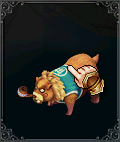
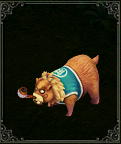
宠物图鉴更新

diff --git a/docs/game/chongwu/list/v3.md b/docs/game/chongwu/list/v3.md
@@ -1,32 +1,32 @@
 # 充值类宠物
 
-|                             充                             |                            值                             |                             神                             |                              宠                              |
-| :--------------------------------------------------------: | :-------------------------------------------------------: | :--------------------------------------------------------: | :----------------------------------------------------------: |
-|                         冰舞圣天麟                         |                        火舞神天麟                         |                           <br/>                            |                         麒麟真君战车                         |
-|                          青鸾游仙                          |  ![](/static/images/game/chongwu/hfft.png)<br/>火凤焚天   |                           <br/>                            |                          凤舞傲九天                          |
-|   ![](/static/images/game/chongwu/hszs.png)<br/>寒霜之殇   |                         炎天之怒                          |                           <br/>                            |                          神龙耀九天                          |
-|                          平步青云                          |  ![](/static/images/game/chongwu/yhcq.png)<br/>月华苍穹   |                           <br/>                            |                           飞黄腾达                           |
-|                          白羊之护                          |                         潘神之怒                          |                           <br/>                            |                           黄金战羊                           |
-|   ![](/static/images/game/chongwu/ptlx.png)<br/>菩提灵象   |                         迦叶圣象                          |                          焚天神象                          |                           黄金战象                           |
-|                           情缘剑                           |                         轩辕战剑                          |                          踏歌采和                          |                           帝赐金福                           |
-|    ![](/static/images/game/chongwu/ljl.png)<br/>蓝锦鳞     |    ![](/static/images/game/chongwu/hjl.png)<br/>红锦鳞    |                            金鳞                            |                          逆天的金鳞                          |
-|                          紫金葫芦                          |                         白玉葫芦                          |                          粉晶葫芦                          |                          八仙的葫芦                          |
-|    ![](/static/images/game/chongwu/slf.png)<br/>圣莲*粉    |   ![](/static/images/game/chongwu/slb.png)<br/>圣莲*白    |                          圣莲*蓝                           |                           金莲菩提                           |
-|                          怒焰妖狐                          |  ![](/static/images/game/chongwu/rxlh.png)<br/>瑞雪灵狐   |                          樱雪仙狐                          |                           金钰吉狐                           |
-|                       迷你炫车*玫红                        |                       迷你炫车*宝蓝                       |                       迷你炫车*橘黄                        |                                                              |
-|                          魔毯*海                           |                          魔毯*陆                          |                          魔毯*空                           |                           飞天魔毯                           |
-|                          天使之驾                          |                         精灵之驾                          |                           <br/>                            |                          梦幻南瓜车                          |
-|  ![](/static/images/game/chongwu/thcf.png)<br/>童话车*粉   |                         童话车*蓝                         |                         童话车*紫                          |                          冰雪童话车                          |
-|                          圣灵之羽                          |                         夜皇之翼                          |                           <br/>                            |                            <br/>                             |
-|                          帷幔*粉                           |                          帷幔*白                          |                          帷幔*蓝                           |                            <br/>                             |
-|    ![](/static/images/game/chongwu/hhf.png)<br/>花环*粉    |                          花环*红                          |                          花环*蓝                           |                            <br/>                             |
-|                         飞空艇*海                          |                         飞空艇*陆                         |                         飞空艇*空                          |                            <br/>                             |
-| ![](/static/images/game/chongwu/ysyjh.png)<br/>月色依旧*海 |                        月色依旧*陆                        | ![](/static/images/game/chongwu/ysyjk.png)<br/>月色依旧*空 |                           幻想之月                           |
-|                           鹤之舞                           |                          鹤之灵                           |                           <br/>                            |                           梦幻飞鸟                           |
-|                          守护天使                          |                         猎爱恶魔                          |                          花的嫁纱                          |                          甜蜜花嫁纱                          |
-|                           熊先森                           |                        浪漫热气球                         |                           <br/>                            |    ![](/static/images/game/chongwu/hjza.png)<br/>黄金藏獒    |
-| ![](/static/images/game/chongwu/fhlxm.png)<br/>粉红驴小妹  | ![](/static/images/game/chongwu/lydym.png)<br/>烈焰地翼魔 |                          神兽玄武                          |    ![](/static/images/game/chongwu/ygjk.png)<br/>远古巨鲲    |
-|                           <br/>                            |                           <br/>                           |                           <br/>                            | ![](/static/images/game/chongwu/lks.png)<br/>![](/static/images/game/chongwu/lksl.png)<br/>雷克斯 |
+|                              充                              |                            值                             |                              神                              |                              宠                              |
+| :----------------------------------------------------------: | :-------------------------------------------------------: | :----------------------------------------------------------: | :----------------------------------------------------------: |
+|                          冰舞圣天麟                          |                        火舞神天麟                         |                            <br/>                             |                         麒麟真君战车                         |
+|                           青鸾游仙                           |  ![](/static/images/game/chongwu/hfft.png)<br/>火凤焚天   |                            <br/>                             |                          凤舞傲九天                          |
+|    ![](/static/images/game/chongwu/hszs.png)<br/>寒霜之殇    |                         炎天之怒                          |                            <br/>                             |                          神龙耀九天                          |
+|                           平步青云                           |  ![](/static/images/game/chongwu/yhcq.png)<br/>月华苍穹   |                            <br/>                             |                           飞黄腾达                           |
+|                           白羊之护                           |                         潘神之怒                          |                            <br/>                             |                           黄金战羊                           |
+|    ![](/static/images/game/chongwu/ptlx.png)<br/>菩提灵象    |  ![](/static/images/game/chongwu/jysx.png)<br/>迦叶圣象   |                           焚天神象                           |                           黄金战象                           |
+|                            情缘剑                            |                         轩辕战剑                          |                           踏歌采和                           |                           帝赐金福                           |
+|     ![](/static/images/game/chongwu/ljl.png)<br/>蓝锦鳞      |    ![](/static/images/game/chongwu/hjl.png)<br/>红锦鳞    |     ![](/static/images/game/chongwu/jinlin.png)<br/>金鳞     |  ![](/static/images/game/chongwu/ntdjl.png)<br/>逆天的金鳞   |
+|                           紫金葫芦                           |                         白玉葫芦                          |                           粉晶葫芦                           |                          八仙的葫芦                          |
+|     ![](/static/images/game/chongwu/slf.png)<br/>圣莲*粉     |   ![](/static/images/game/chongwu/slb.png)<br/>圣莲*白    |                           圣莲*蓝                            |                           金莲菩提                           |
+|                           怒焰妖狐                           |  ![](/static/images/game/chongwu/rxlh.png)<br/>瑞雪灵狐   |    ![](/static/images/game/chongwu/yxxh.png)<br/>樱雪仙狐    |                           金钰吉狐                           |
+| ![](/static/images/game/chongwu/mnxcmh.png)<br/>迷你炫车*玫红 |                       迷你炫车*宝蓝                       | ![](/static/images/game/chongwu/mnxcjh.png)<br/>迷你炫车*橘黄 |                                                              |
+|                           魔毯*海                            |                          魔毯*陆                          |                           魔毯*空                            |                           飞天魔毯                           |
+|                           天使之驾                           |                         精灵之驾                          |                            <br/>                             |                          梦幻南瓜车                          |
+|   ![](/static/images/game/chongwu/thcf.png)<br/>童话车*粉    |                         童话车*蓝                         |                          童话车*紫                           |                          冰雪童话车                          |
+|                           圣灵之羽                           |                         夜皇之翼                          |                            <br/>                             |                            <br/>                             |
+|                           帷幔*粉                            |   ![](/static/images/game/chongwu/wmb.png)<br/>帷幔*白    |                           帷幔*蓝                            |                            <br/>                             |
+|     ![](/static/images/game/chongwu/hhf.png)<br/>花环*粉     |                          花环*红                          |                           花环*蓝                            |                            <br/>                             |
+|                          飞空艇*海                           |                         飞空艇*陆                         |                          飞空艇*空                           |                            <br/>                             |
+|  ![](/static/images/game/chongwu/ysyjh.png)<br/>月色依旧*海  |                        月色依旧*陆                        |  ![](/static/images/game/chongwu/ysyjk.png)<br/>月色依旧*空  |                           幻想之月                           |
+|                            鹤之舞                            |                          鹤之灵                           |                            <br/>                             |                           梦幻飞鸟                           |
+|                           守护天使                           |                         猎爱恶魔                          |                           花的嫁纱                           |                          甜蜜花嫁纱                          |
+|                            熊先森                            |                        浪漫热气球                         |                            <br/>                             |    ![](/static/images/game/chongwu/hjza.png)<br/>黄金藏獒    |
+|  ![](/static/images/game/chongwu/fhlxm.png)<br/>粉红驴小妹   | ![](/static/images/game/chongwu/lydym.png)<br/>烈焰地翼魔 |                           神兽玄武                           |    ![](/static/images/game/chongwu/ygjk.png)<br/>远古巨鲲    |
+|                            <br/>                             |                           <br/>                           |                            <br/>                             | ![](/static/images/game/chongwu/lks.png)<br/>![](/static/images/game/chongwu/lksl.png)<br/>雷克斯 |
 
 ## 参考资料
 

diff --git a/docs/game/chongwu/list/v1.md b/docs/game/chongwu/list/v1.md
@@ -13,7 +13,7 @@
 |  ![](/static/images/game/chongwu/qqtz.jpg)<br/>QQ糖（珍）  |  ![](/static/images/game/chongwu/dtx.png)<br/>电臀熊   |                          心悦小马哥                          |          <span style="color:orange">Mr.Gaga</span>           |
 |   ![](/static/images/game/chongwu/dwng.jpg)<br/>大蜗牛怪   |  ![](/static/images/game/chongwu/jxh.png)<br/>吉祥虎   |   ![](/static/images/game/chongwu/nmwz.jpg)<br/>牛魔王*珍    | <span style="color:orange">![](/static/images/game/chongwu/mmts.png)<br/>咩咩天使</span> |
 |      ![](/static/images/game/chongwu/sl.jpg)<br/>山狼      |  ![](/static/images/game/chongwu/ryh.png)<br/>如意虎   |   ![](/static/images/game/chongwu/mtzz.jpg)<br/>魔天猪*珍    | <span style="color:orange">![](/static/images/game/chongwu/tdql.jpg)<br/>天麒麟</span> |
-|    ![](/static/images/game/chongwu/smq.jpg)<br/>水母球     |                         石狮子                         |  ![](/static/images/game/chongwu/rygzz.jpg)<br/>人鱼公主*珍  | <span style="color:orange">![](/static/images/game/chongwu/tdql.jpg)<br/>地麒麟</span> |
+|    ![](/static/images/game/chongwu/smq.jpg)<br/>水母球     |  ![](/static/images/game/chongwu/ssz.png)<br/>石狮子   |  ![](/static/images/game/chongwu/rygzz.jpg)<br/>人鱼公主*珍  | <span style="color:orange">![](/static/images/game/chongwu/tdql.jpg)<br/>地麒麟</span> |
 |      ![](/static/images/game/chongwu/xn.jpg)<br/>雪女      |  ![](/static/images/game/chongwu/bel.png)<br/>白垩龙   |    ![](/static/images/game/chongwu/zlwfw.jpg)<br/>珍*法王    | <span style="color:orange">![](/static/images/game/chongwu/xstt.png)<br/>凶兽饕餮</span> |
 |    ![](/static/images/game/chongwu/fjl.jpg)<br/>风精灵     |                        童梦奇缘                        |    ![](/static/images/game/chongwu/zlwfw.jpg)<br/>珍*力王    |           <span style="color:orange">香蕉船</span>           |
 |   ![](/static/images/game/chongwu/xmxb.jpg)<br/>虾米小兵   |                        水晶石鸟                        |    ![](/static/images/game/chongwu/hexz.jpg)<br/>红萼仙子    |          <span style="color:orange">啸炎白虎</span>          |

diff --git a/tree.md b/tree.md
@@ -40,7 +40,7 @@
     - 🌙 夜影村
     - 🐸 迷雾沼泽
     - 🐚 冰火双螺
-    - 🕍 灵泽殿
+    - [🕍 灵泽殿](/fuben/lzd)
     - 🗻 先祖山
     - 🐶 犬隐寺
 - 4 PVP 系统

diff --git a/docs/fuben/lzd.md b/docs/fuben/lzd.md
@@ -1,0 +1,8 @@
+# 🕍 灵泽殿
+
+
+
+## 参考资料
+
+[《QQ自由幻想》灵泽殿详细介绍](http://m.kuai8.com/gonglue/227028.html)
+
